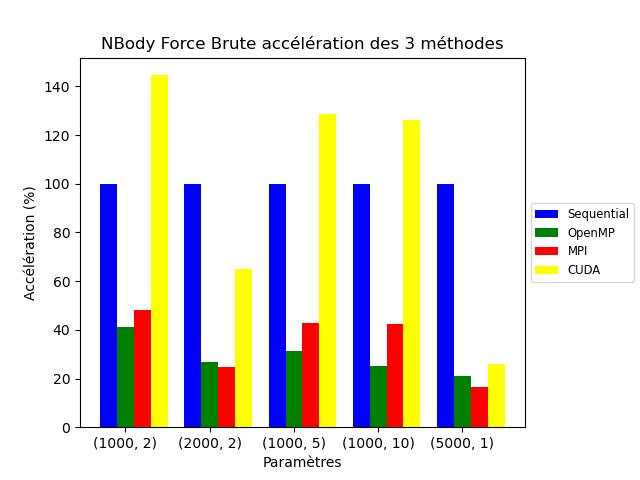
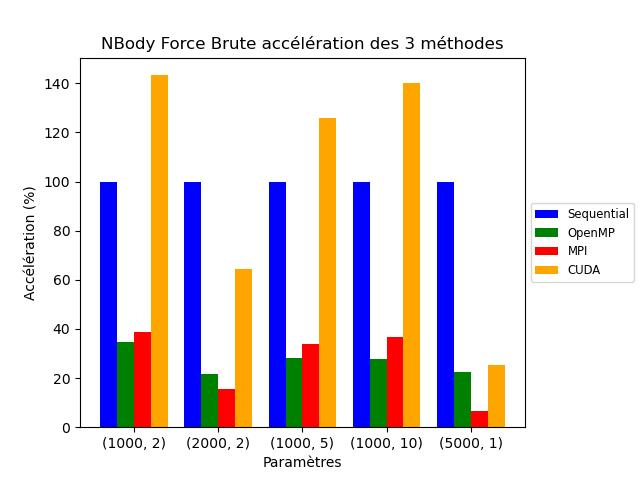
statistics and graphs

diff --git a/statistics.py b/statistics.py
@@ -39,25 +39,27 @@ def openmp_args(nb_particles, T_FINAL, i):
 
 def openmp_graph(n, nb_particles, T_FINAL):
     data = openmp(n, nb_particles, T_FINAL)
+    print(data)
     create_graph("OpenMP", data, nb_particles, T_FINAL)
 
 
-def mpi(n, nb_particles, T_FINAL):
+def mpi(n, openmp_n, nb_particles, T_FINAL):
     data = []
     for i in range(1, n + 1):
         print(f'Calculate for {i} different machines')
-        data.append(get_duration(mpi_args(nb_particles, T_FINAL, i)))
+        data.append(get_duration(mpi_args(nb_particles, T_FINAL, i, openmp_n)))
     return data
 
 
-def mpi_args(nb_particles, T_FINAL, i):
+def mpi_args(nb_particles, T_FINAL, i, openmp_n):
     return ['mpirun', '-np', str(i), '-hostfile', f'{FILEPATH}/mpi/hosts',
-            f'{FILEPATH}/mpi/nbody_brute_force', str(nb_particles), str(T_FINAL), str(i)]
+            f'{FILEPATH}/mpi/nbody_brute_force', str(nb_particles), str(T_FINAL), str(openmp_n)]
 
 
-def mpi_graph(n, nb_particles, T_FINAL):
-    data = mpi(n, nb_particles, T_FINAL)
-    create_graph("MPI", data, nb_particles, T_FINAL)
+def mpi_graph(n, openmp_n, nb_particles, T_FINAL):
+    data = mpi(n, openmp_n, nb_particles, T_FINAL)
+    print(data)
+    create_graph(f"MPI openMP: {openmp_n}", data, nb_particles, T_FINAL)
 
 
 def create_graph(algo, data, nb_particles, T_FINAL):
@@ -69,17 +71,16 @@ def create_graph(algo, data, nb_particles, T_FINAL):
 
     # Définissez les graduations personnalisées pour les axes x et y
     x_ticks = [i for i in range(1, n + 1)]
-
     # Utilisez xticks et yticks pour définir les graduations
     plt.xticks(x_ticks)
 
-    plt.xlabel('Nb de threads')
+    plt.xlabel('Nb de processus')
     plt.ylabel('Temps (s)')
     plt.title(f'NBody Force Brute {algo} {nb_particles} {T_FINAL}')
 
     # plt.autoscale(False)
     plt.savefig(f'{FILEPATH}/graph/NBody Force Brute {algo} {nb_particles} {T_FINAL}.jpg')
-
+    plt.clf()
 
 def sequential_args(nb_particles, T_FINAL):
     return [f'{FILEPATH}/sequential/nbody_brute_force', str(nb_particles), str(T_FINAL)]
@@ -101,7 +102,7 @@ def bar_graph():
 
         data_sequential.append((sequential_time/sequential_time) * 100)
         data_openmp.append((get_duration(openmp_args(nb_particles, T_FINAL, n))/sequential_time) * 100)
-        data_mpi.append((get_duration(mpi_args(nb_particles, T_FINAL, n))/sequential_time) * 100)
+        data_mpi.append((get_duration(mpi_args(nb_particles, T_FINAL, n, 20))/sequential_time) * 100)
         data_cuda[i] = data_cuda[i]/sequential_time * 100
 
         legende.append(f"({nb_particles}, {T_FINAL})")
@@ -122,12 +123,13 @@ def bar_graph():
     plt.xlabel('Paramètres')
     plt.ylabel('Accélération (%)')
     plt.title(title)
-    plt.xticks(indices + largeur_barre, legende)
+    plt.xticks(indices + largeur_barre*1.5, legende)
     plt.legend(loc='center left', bbox_to_anchor=(1, 0.5), fontsize='small')
     plt.subplots_adjust(right=0.82)
 
     # Affichez le graphique
     plt.savefig(f"{FILEPATH}/graph/{title}.jpg")
+    plt.clf()
 
 
 def evolution_t_graph(nb_particles):
@@ -145,7 +147,7 @@ def evolution_t_graph(nb_particles):
 
         data_sequential.append(sequential_time)
         data_openmp.append(get_duration(openmp_args(nb_particles, T_FINAL, n)))
-        data_mpi.append(get_duration(mpi_args(nb_particles, T_FINAL, n)))
+        data_mpi.append(get_duration(mpi_args(nb_particles, T_FINAL, n, 20)))
         data_cuda[t-1] = data_cuda[t-1]
 
     # Créez le graphique en barres
@@ -163,6 +165,7 @@ def evolution_t_graph(nb_particles):
 
     # Affichez le graphique
     plt.savefig(f"{FILEPATH}/graph/{title}.jpg")
+    plt.clf()
 
 
 def evolution_nb_particles_graph(T_FINAL):
@@ -178,7 +181,7 @@ def evolution_nb_particles_graph(T_FINAL):
         sequential_time = get_duration(sequential_args(nb_particles, T_FINAL))
         data_sequential.append(sequential_time)
         data_openmp.append(get_duration(openmp_args(nb_particles, T_FINAL, n)))
-        data_mpi.append(get_duration(mpi_args(nb_particles, T_FINAL, n)))
+        data_mpi.append(get_duration(mpi_args(nb_particles, T_FINAL, n, 20)))
         data_cuda[(nb_particles//1000)-1] = data_cuda[(nb_particles//1000)-1]
 
     # Créez le graphique en barres
@@ -196,14 +199,16 @@ def evolution_nb_particles_graph(T_FINAL):
 
     # Affichez le graphique
     plt.savefig(f"{FILEPATH}/graph/{title}.jpg")
+    plt.clf()
 
 
 n = 10
 number_particles = 5000
 time = 2
 
-mpi_graph(n, number_particles, time)
-openmp_graph(n, number_particles, time)
-evolution_t_graph(1000)
-evolution_nb_particles_graph(2)
+# mpi_graph(n, 1, number_particles, time)
+# mpi_graph(n, 20, number_particles, time)
+# openmp_graph(n, number_particles, time)
+# evolution_t_graph(1000)
+# evolution_nb_particles_graph(2)
 bar_graph()

diff --git a/mpi/nbody_brute_force.c b/mpi/nbody_brute_force.c
@@ -102,6 +102,7 @@ void all_move_particles(double step, int comm_size, int comm_rank, MPI_Datatype 
 
     //MPI : while we calculate the force the particles aren't moving, work can be separated
     int i;
+#pragma omp parallel for default(none) shared(particles, nparticles, local_particles, nparticles_per_process)
     for (i = 0; i < nparticles_per_process; i++) {
         int j;
         local_particles[i].x_force = 0;
@@ -192,12 +193,20 @@ void run_simulation(int comm_size, int comm_rank, MPI_Datatype MPI_PARTICLE_T) {
   Simulate the movement of nparticles particles.
 */
 int main(int argc, char **argv) {
+    int OMP_NUM_THREADS = 1;
+
     if (argc >= 2) {
         nparticles = atoi(argv[1]);
     }
     if (argc >= 3) {
         T_FINAL = atof(argv[2]);
     }
+    if (argc == 4) {
+        OMP_NUM_THREADS = atof(argv[3]);
+    }
+
+    omp_set_num_threads(OMP_NUM_THREADS);
+
 
     MPI_Init(&argc, &argv);
 
